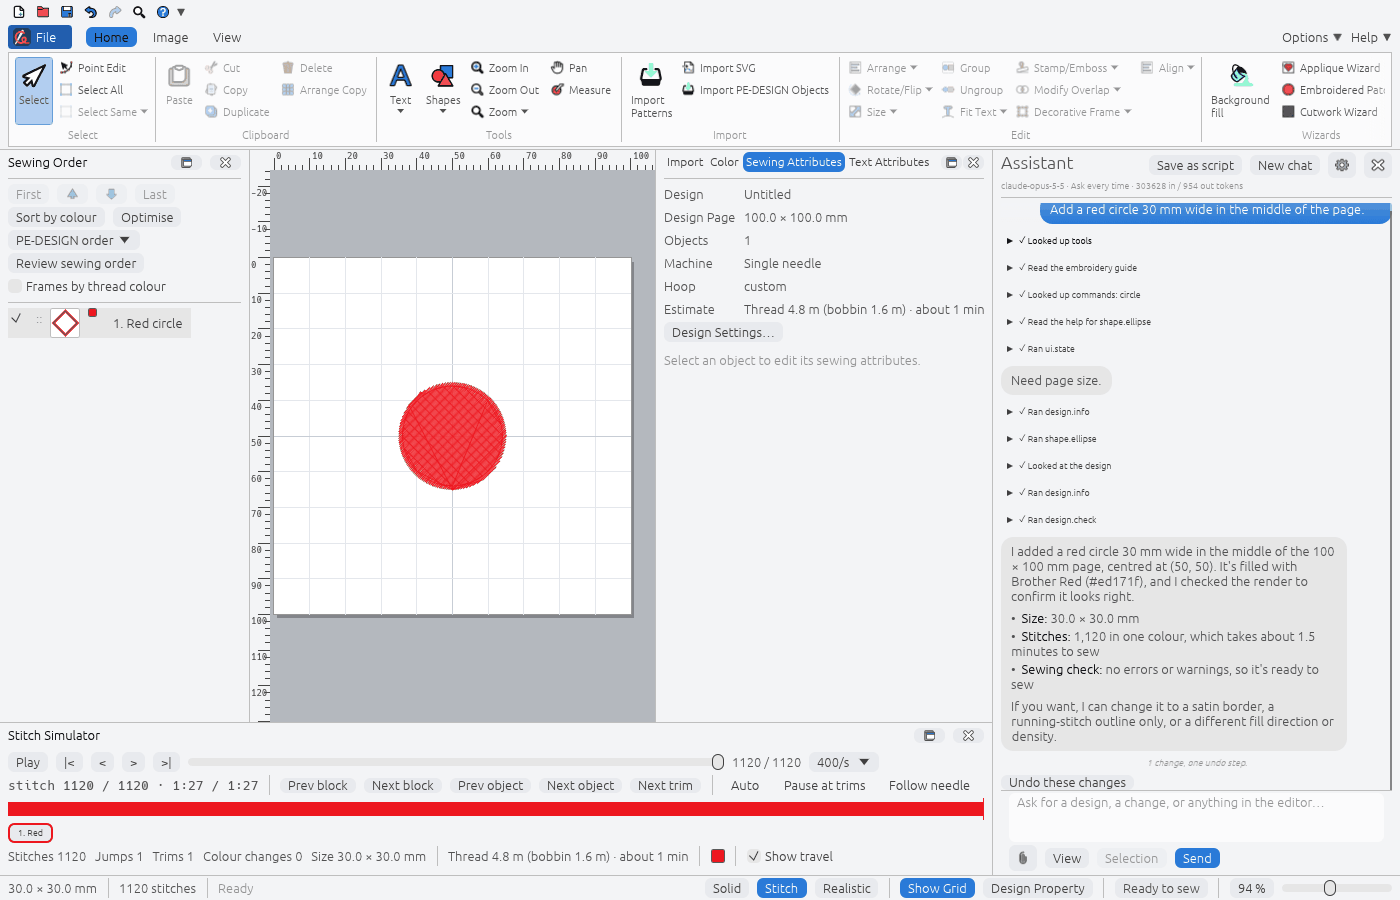
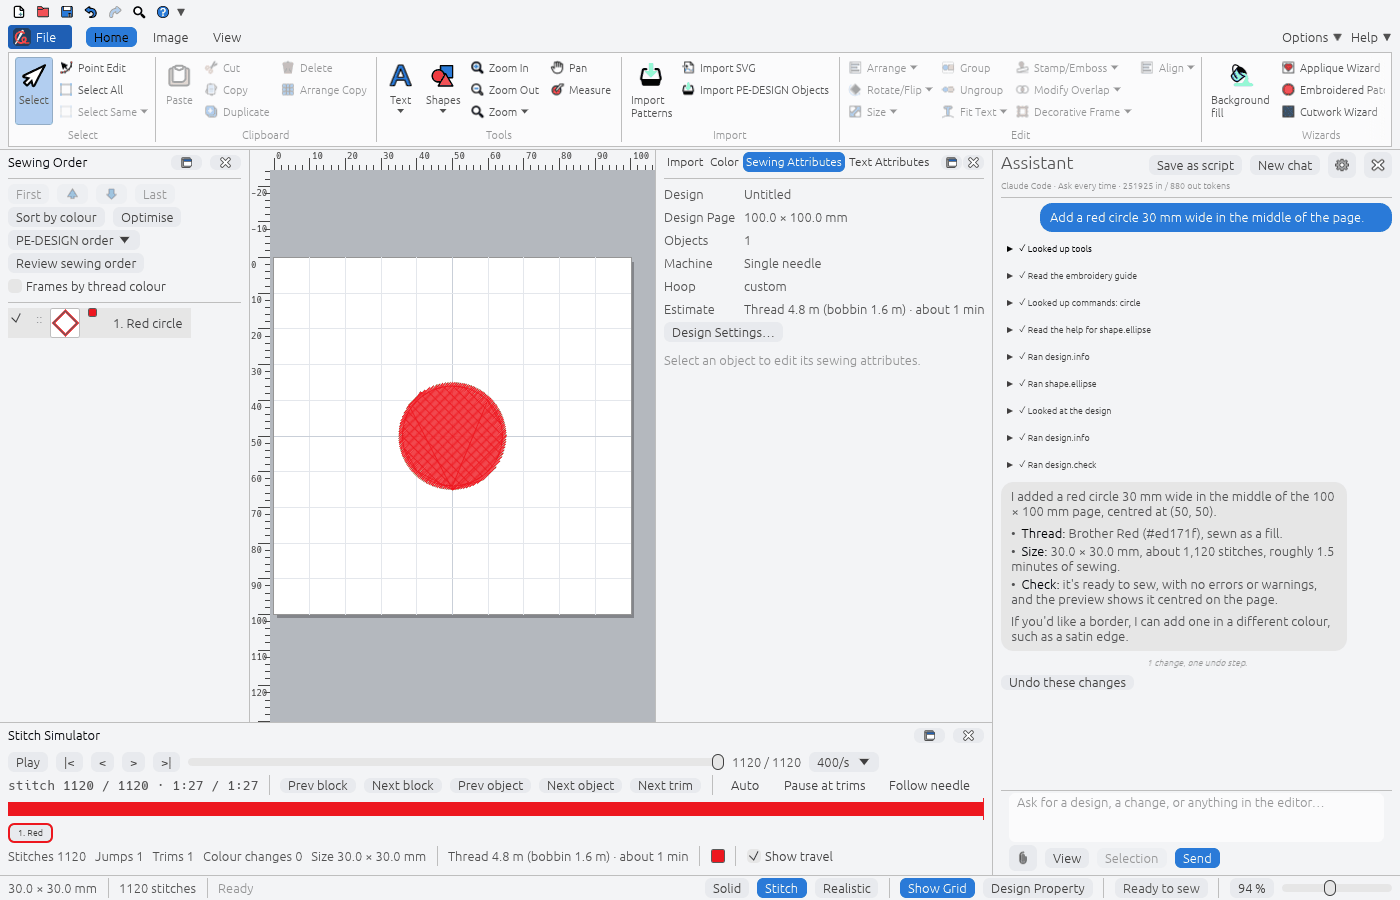
Retake the Windows Assistant screenshot with the agent named in the subtitle (#582, #645)

Changed region(s): [[0.7064, 0.1867, 1.0, 0.8089], [0.8293, 0.84, 0.8907, 0.8711]]

diff --git a/tools/docs_images.py b/tools/docs_images.py
@@ -51,7 +51,7 @@ sys.path.insert(0, str(TOOLS))
 RECORDS = {
     "docs/images/assistant-agent-picture.png": "docs/research/beyond/ai-integration.md (#393, live Claude Code session)",
     "docs/images/assistant-ollama-vector-route.png": "docs/research/beyond/ai-integration.md (#393, live Ollama session)",
-    "docs/images/assistant-windows-claude-code.png": "docs/research/beyond/ai-integration.md (#582, live Claude Code session on Windows)",
+    "docs/images/assistant-windows-claude-code.png": "docs/research/beyond/ai-integration.md (#582, live Claude Code session on Windows, 2026-11-06, retaken with the #645 subtitle)",
     **{f"docs/images/research/image-similarity/{n}.jpg": "docs/research/beyond/image-similarity-plan.md section 4.1"
        for n in ["g01-ap", "g05-ap", "g07-cs", "g08-ap", "p01-ps1", "p03-ps1", "p04-ps1", "p08-ps2"]},
 }
